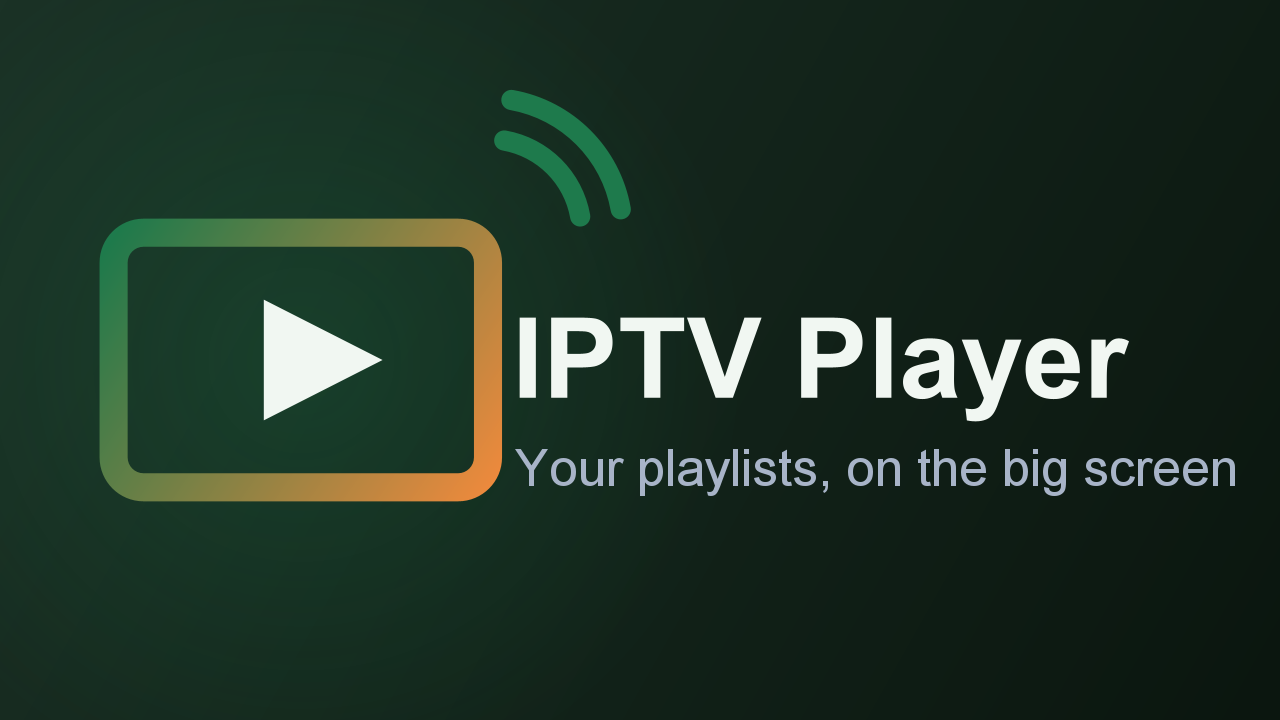
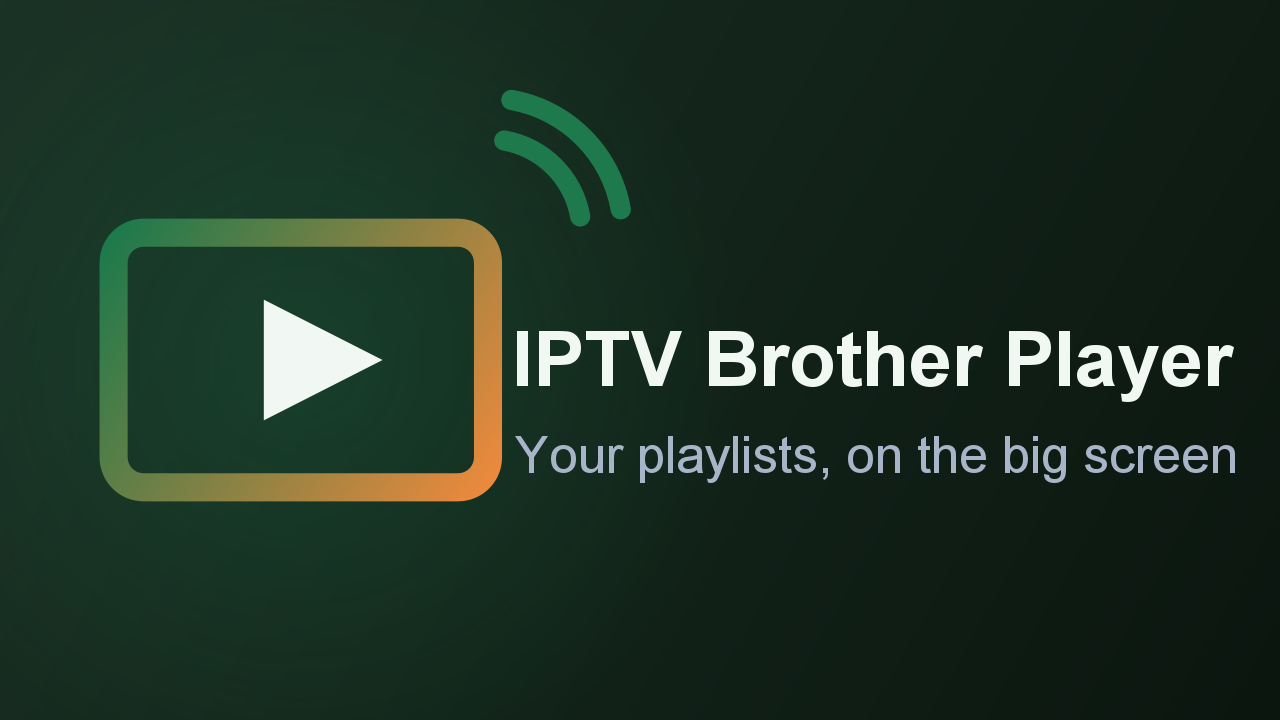
Fix stale wordmark in generated assets; add store screenshots
The TV banner and both stores' feature graphics still said "IPTV
Player" — the pre-rename app name — months after the app became "IPTV
Brother Player". `GenerateAssets.banner()` drew a literal
`drawString("IPTV Player", ...)` sized for that specific string, so
nothing about the rename broke loudly; every asset regeneration since
just kept silently reproducing the old name. This affected the TV
banner shipping in every build today, not only new store artwork.

Fixed by making the wordmark a named constant checked against
`app_name`, and by sizing the font to fit the actual string
(`fitText()`) rather than a size chosen for one specific string —
"IPTV Brother Player" is five characters longer and would have
overflowed the banner at the old fixed size. Icons are unaffected
(text-free) and regenerated byte-identical, confirming the fix only
touched what needed touching.

Also adds store/screenshots/: four 1920x1080 captures from the TV
emulator (Live TV, playback, EPG guide, Settings) against synthetic
demo content built for this purpose only — generic channel names,
initials-only placeholder logos, a public-domain test video — and not
shipped or committed anywhere else. Deliberately no real broadcaster
names or logos: this app has no content or provider of its own, and
real channel branding in its own store listing would misrepresent
that, the same concern already documented for the icon design.

Changed region(s): [[0.4062, 0.4278, 0.9688, 0.5806], [0.4062, 0.6111, 0.9688, 0.7028]]

diff --git a/tools/GenerateAssets.java b/tools/GenerateAssets.java
@@ -35,6 +35,11 @@ public final class GenerateAssets {
     private static final Color ACCENT_2  = new Color(0xED8A3D);
     private static final Color FG        = new Color(0xF1F7F2);
 
+    // Must match res/values/strings.xml's app_name — see fitText() for what
+    // goes wrong when this drifts from it.
+    private static final String WORDMARK = "IPTV Brother Player";
+    private static final String TAGLINE  = "Your playlists, on the big screen";
+
     public static void main(String[] args) throws IOException {
         File res = new File("app/src/main/res");
         File store = new File("store");
@@ -108,18 +113,43 @@ public final class GenerateAssets {
 
         drawMark(g, cx, cy, h * 0.52f);
 
-        g.setColor(FG);
-        g.setFont(new Font(Font.SANS_SERIF, Font.BOLD, Math.round(h * 0.155f)));
-        FontMetrics fm = g.getFontMetrics();
         float tx = w * 0.40f;
-        g.drawString("IPTV Player", tx, cy + fm.getAscent() * 0.36f - fm.getDescent() * 0.2f);
+        float maxTextWidth = w - tx - w * 0.03f;
+
+        g.setColor(FG);
+        FontMetrics fm = fitText(g, WORDMARK, Font.BOLD, Math.round(h * 0.155f), maxTextWidth);
+        g.drawString(WORDMARK, tx, cy + fm.getAscent() * 0.36f - fm.getDescent() * 0.2f);
 
         g.setColor(new Color(0xA8B4C8));
-        g.setFont(new Font(Font.SANS_SERIF, Font.PLAIN, Math.round(h * 0.072f)));
-        g.drawString("Your playlists, on the big screen", tx + 2, cy + fm.getAscent() * 0.36f + h * 0.115f);
+        fitText(g, TAGLINE, Font.PLAIN, Math.round(h * 0.072f), maxTextWidth);
+        g.drawString(TAGLINE, tx + 2, cy + fm.getAscent() * 0.36f + h * 0.115f);
 
         g.dispose();
         return img;
+    }
+
+    /**
+     * Sets `g`'s font to the largest size (down to a floor, so a name that
+     * genuinely cannot fit degrades to overlapping rather than vanishing at
+     * size zero) at which `text` fits within `maxWidth`, and returns the
+     * resulting FontMetrics.
+     *
+     * Exists because the wordmark used to be a literal `drawString("IPTV
+     * Player", ...)` sized for that specific string — harmless until the app
+     * was renamed to "IPTV Brother Player" and every generated banner kept
+     * shipping the old, five-characters-shorter name, silently, because
+     * nothing about a fixed size+string pairing can fail loudly when the
+     * string changes elsewhere.
+     */
+    private static FontMetrics fitText(Graphics2D g, String text, int style, int startSize, float maxWidth) {
+        int size = startSize;
+        FontMetrics fm;
+        do {
+            g.setFont(new Font(Font.SANS_SERIF, style, size));
+            fm = g.getFontMetrics();
+            size -= 1;
+        } while (fm.stringWidth(text) > maxWidth && size >= 8);
+        return fm;
     }
 
     /**

diff --git a/README.md b/README.md
@@ -831,4 +831,18 @@ Writes `app/src/main/res/mipmap-*`, `drawable-xhdpi/tv_banner.png` and `store/`
 (Play 512 icon and 1280×720 TV banner; Amazon 114/512 icons and feature
 graphic). Do not hand-edit those files — change the generator.
 
-Screenshots for both listings still need capturing on a real device.
+The wordmark it draws is a constant (`GenerateAssets.WORDMARK`) checked against
+`res/values/strings.xml`'s `app_name`, sized to fit rather than assumed to —
+the two drifted once already: everything under `store/` and the TV banner
+itself kept shipping "IPTV Player" for months after the app was renamed to
+"IPTV Brother Player", because the original code was a `drawString` sized for
+that specific, shorter string. Nothing failed when the name changed elsewhere;
+it just silently kept drawing the old one.
+
+`store/screenshots/` holds four 1920×1080 captures from the TV emulator —
+Live TV, playback, the EPG guide, Settings — taken against synthetic demo
+content (generic channel names, initials-only logos, public-domain test video)
+built solely for this purpose and not shipped or committed anywhere. Real
+broadcaster names and logos never appear in anything under `store/`, on
+purpose: this app ships with no content or provider of its own, and depicting
+real channels in its own marketing material would misrepresent that.
